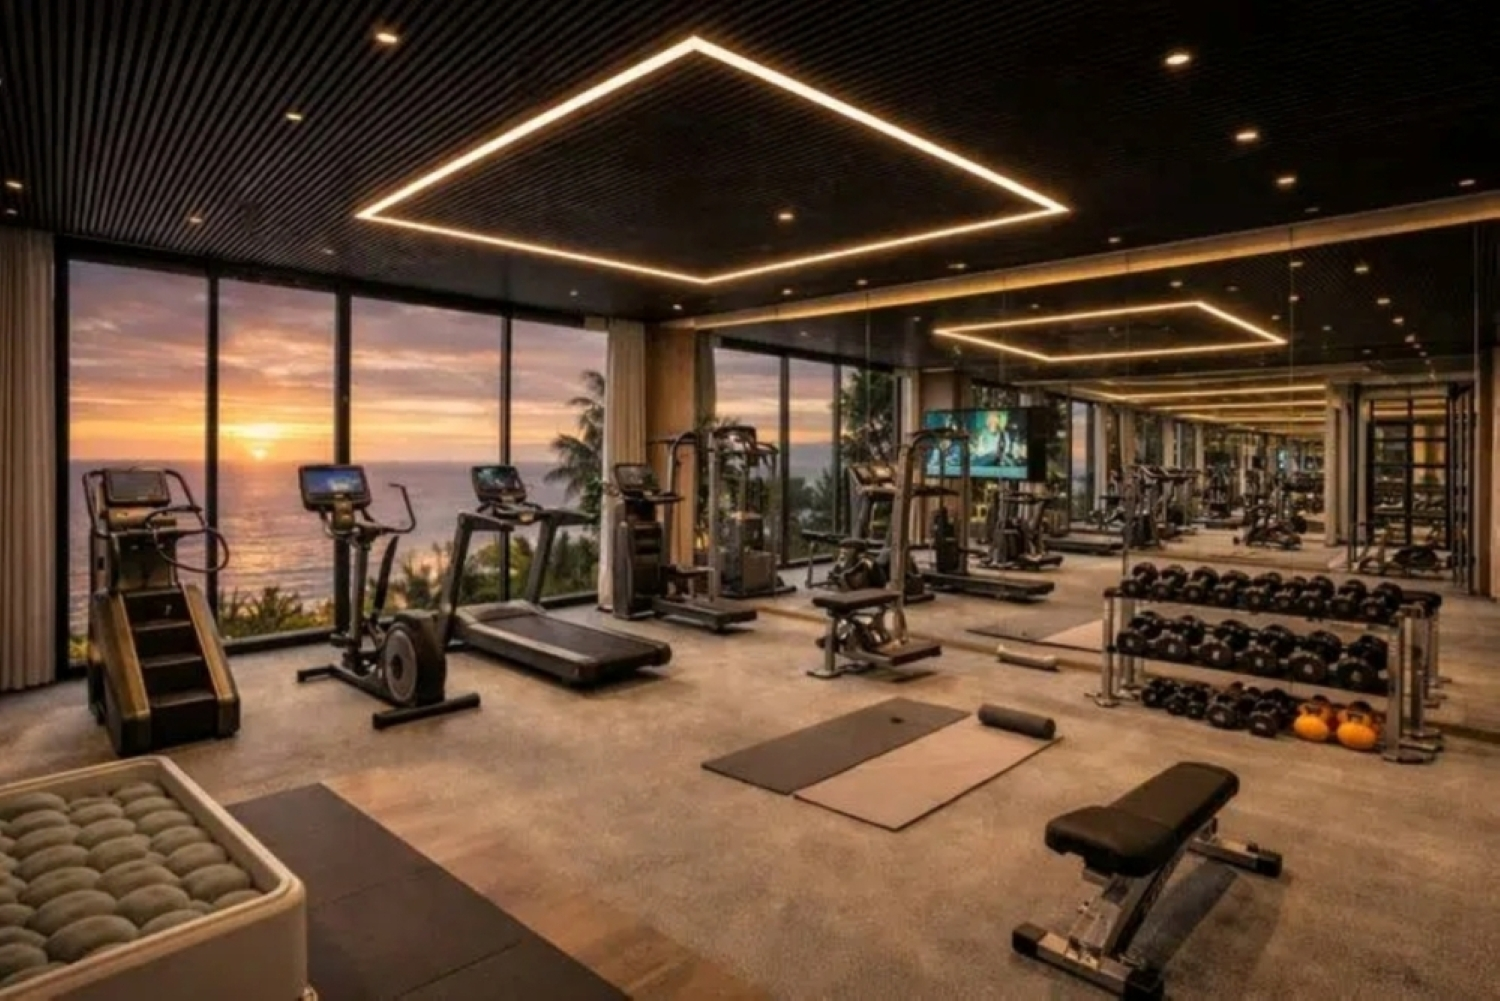
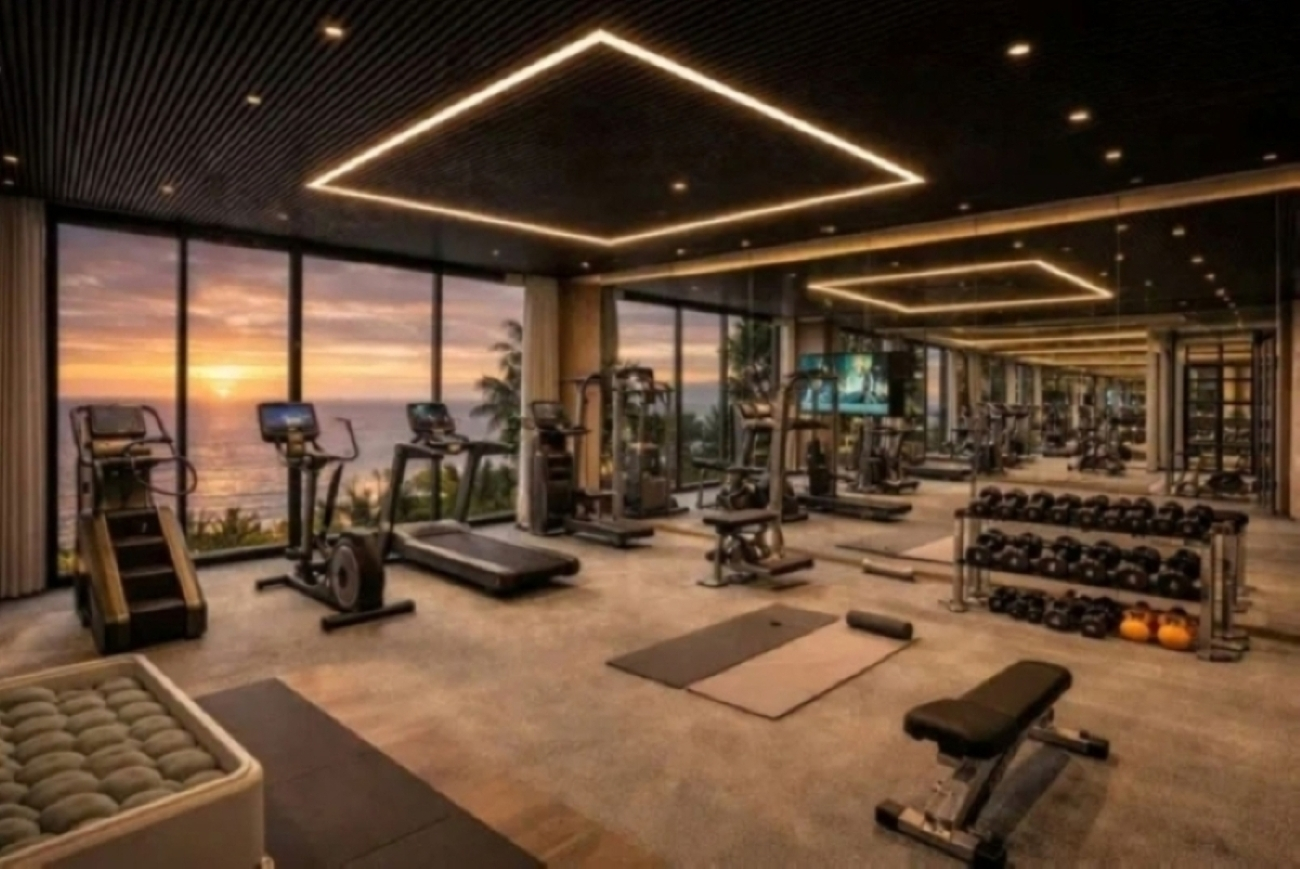
sport 5

diff --git a/Abonnement hebdomadaire.html b/Abonnement hebdomadaire.html
@@ -70,7 +70,7 @@
 
 </header>
 
-<body class="backgroundcolor4">
+<body class="backgroundcolor4 background-image background-image2">
 
     <main>
 
@@ -88,7 +88,7 @@
 
         <section class="flex space-around margin-top-30  border-raduis">
 
-            <p class="backgroundcolor3 border-raduis colorwhite box-shadows">
+            <p class="backgroundcolor3 border-raduis box-shadows">
 
                 <br>-15 € / Semaine :
                 <br>
@@ -97,10 +97,10 @@
                 <br>-Vestiaire
                 <br>-Serviette offerte
                 <br>-Balance composition corporel
-
+                <br>
             </p>
 
-            <p class="backgroundcolor3 border-raduis colorwhite box-shadows">
+            <p class="backgroundcolor3 border-raduis box-shadows">
 
                 <br>-25€ / semaine :
                 <br>
@@ -121,7 +121,7 @@
 
         <section class="flex space-around margin-top-30 border-raduis">
 
-            <p class="backgroundcolor3 border-raduis colorwhite box-shadows">
+            <p class="backgroundcolor3 border-raduis box-shadows">
 
                 <br>-20€/ semaine :
                 <br>
@@ -133,10 +133,10 @@
                 <br>-Accès terrain de basket
                 <br>-Bain froid
                 <br>-Accès au cours de fitness/yoga 
-
+                <br>
             </p>
 
-            <p class="backgroundcolor3 border-raduis colorwhite box-shadows">
+            <p class="backgroundcolor3 border-raduis box-shadows">
 
                 <br>-32 € / semaine
                 <br>
@@ -162,13 +162,13 @@
 
             <div>
 
-                <h4 class="">
+                <h4 class="colorwhite">
 
                     Contact <i class="ph ph-address-book"></i>
 
                 </h4>
 
-                <p class="">
+                <p class="colorwhite">
 
                     <br><i class="ph ph-phone"></i> <a href="tel:"></a>
                     <br>Jours d'Ouverture:
@@ -180,7 +180,7 @@
                     <br>Samedi: H-H
                     <br>Dimanche: H-H
 
-                <address>
+                <address class="colorwhite">
 
                     <i class="ph ph-envelope-simple"></i><a href="mailto:"></a><br />
 

diff --git a/Abonnement mensuel.html b/Abonnement mensuel.html
@@ -69,7 +69,7 @@
 
 </header>
 
-<body class="backgroundcolor4">
+<body class="backgroundcolor4 background-image background-image2">
 
     <main>
 
@@ -97,7 +97,7 @@
                 <br>-Vestiaire
                 <br>-Serviette offerte
                 <br>-Balance composition corporel
-
+                <br>
             </p>
 
             <p class="backgroundcolor3 border-raduis box-shadows">
@@ -135,7 +135,7 @@
                 <br>-Vestiaire
                 <br>-Serviette offerte
                 <br>-Siège chauffant
-
+                <br>
             </p>
 
             <p class="backgroundcolor3 border-raduis box-shadows">
@@ -162,13 +162,13 @@
 
             <div>
 
-                <h4 class="">
+                <h4 class="colorwhite">
 
                     Contact <i class="ph ph-address-book"></i>
 
                 </h4>
 
-                <p class="">
+                <p class="colorwhite">
 
                     <br><i class="ph ph-phone"></i> <a href="tel:"></a>
                     <br>Jours d'Ouverture:
@@ -180,7 +180,7 @@
                     <br>Samedi: H-H
                     <br>Dimanche: H-H
 
-                <address>
+                <address class="colorwhite">
 
                     <i class="ph ph-envelope-simple"></i><a href="mailto:"></a><br />
 

diff --git a/index.html b/index.html
@@ -71,19 +71,19 @@
 
 </header>
 
-<body class="backgroundcolor4">
+<body class="backgroundcolor4 background-image background-image2">
 
     <footer class="margin-top-30 text-align-center">
 
         <div>
 
-            <h4 class="">
+            <h4 class="colorwhite">
 
                 Contact <i class="ph ph-address-book"></i>
 
             </h4>
 
-            <p class="">
+            <p class="colorwhite">
 
                 <br><i class="ph ph-phone"></i> <a href="tel:"></a>
                 <br>Jours d'Ouverture:
@@ -95,9 +95,9 @@
                 <br>Samedi: H-H
                 <br>Dimanche: H-H
 
-            <address>
+            <address class="colorwhite">
 
-                <i class="ph ph-envelope-simple"></i><a href="mailto:"></a><br />
+                <i class="ph ph-envelope-simple"></i><a href="mailto:"></a>
 
             </address>
 

diff --git a/Infrastructure.html b/Infrastructure.html
@@ -70,7 +70,7 @@
 
 </header>
 
-<body class="backgroundcolor4">
+<body class="backgroundcolor4 background-image background-image2">
 
     <main>
 
@@ -145,13 +145,13 @@
 
             <div>
 
-                <h4 class="">
+                <h4 class="colorwhite">
 
                     Contact <i class="ph ph-address-book"></i>
 
                 </h4>
 
-                <p class="">
+                <p class="colorwhite">
 
                     <br><i class="ph ph-phone"></i> <a href="tel:"></a>
                     <br>Jours d'Ouverture:
@@ -163,7 +163,7 @@
                     <br>Samedi: H-H
                     <br>Dimanche: H-H
 
-                <address>
+                <address class="colorwhite">
 
                     <i class="ph ph-envelope-simple"></i><a href="mailto:"></a><br />
 

diff --git a/Les Prestations.html b/Les Prestations.html
@@ -65,7 +65,7 @@
 
 </header>
 
-<body class="backgroundcolor4">
+<body class="backgroundcolor4 background-image background-image2">
 
     <main>
 
@@ -111,13 +111,13 @@
 
             <div>
 
-                <h4 class="">
+                <h4 class="colorwhite">
 
                     Contact <i class="ph ph-address-book"></i>
 
                 </h4>
 
-                <p class="">
+                <p class="colorwhite">
 
                     <br><i class="ph ph-phone"></i> <a href="tel:"></a>
                     <br>Jours d'Ouverture:
@@ -129,7 +129,7 @@
                     <br>Samedi: H-H
                     <br>Dimanche: H-H
 
-                <address>
+                <address class="colorwhite">
 
                     <i class="ph ph-envelope-simple"></i><a href="mailto:"></a><br />
 

diff --git a/style.css b/style.css
@@ -277,7 +277,7 @@ h1{
 }
 
 .colorwhite{
-    color: black;
+    color: white;
 }
 
 .justifycontentflexstart{
@@ -309,7 +309,7 @@ abbr {
 }
 
 .backgroundcolor5{
-  background-color: beige;
+  background-color: white;
 }
 
 a[href^="mailto"]::before {
@@ -372,4 +372,13 @@ input {
     position: absolute;
     inset-inline-start: 1000px;
     inset-block-start: 10px;
+}
+
+.background-image{
+    background-image:url(asset/salle\ de\ muscu.jpg) 
+    
+}
+
+.background-image2{
+    background-repeat:repeat-y
 }
